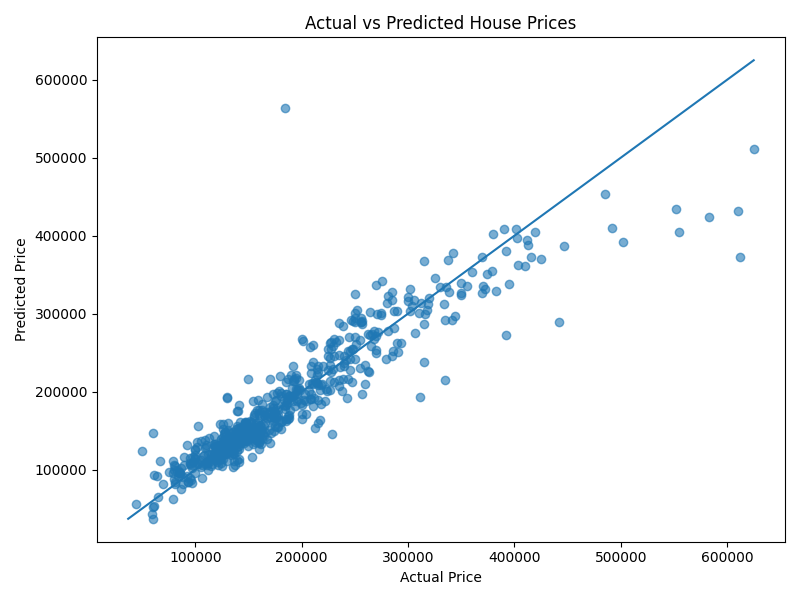
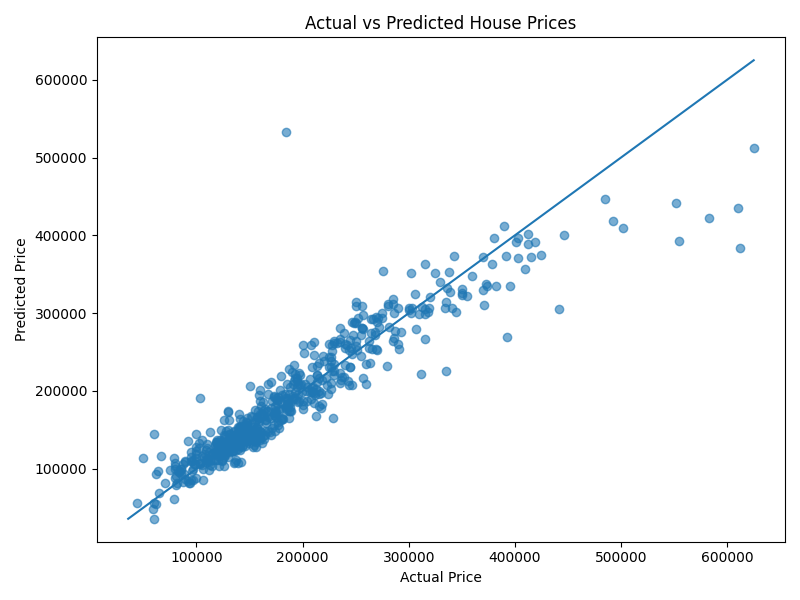
Complete house price prediction project

diff --git a/src/train.py b/src/train.py
@@ -263,3 +263,30 @@ plt.show()
 print("\nTraining completed!")
 print("Model saved successfully!")
 print("Target scaler saved successfully!")
+
+# -------------------------
+# 15. Model Fit Analysis
+# -------------------------
+
+final_train_loss = train_losses[-1]
+final_val_loss = val_losses[-1]
+
+loss_ratio = final_val_loss / final_train_loss
+
+print("\nMODEL FIT ANALYSIS")
+print("-------------------------")
+print(f"Final Training Loss:   {final_train_loss:.4f}")
+print(f"Final Validation Loss: {final_val_loss:.4f}")
+print(f"Validation/Training Ratio: {loss_ratio:.2f}")
+
+if loss_ratio > 1.5:
+    print("Result: OVERFITTING")
+    print("Validation loss is substantially higher than training loss.")
+
+elif final_train_loss > 0.5 and final_val_loss > 0.5:
+    print("Result: UNDERFITTING")
+    print("Both training and validation losses remain relatively high.")
+
+else:
+    print("Result: GOOD FIT")
+    print("Training and validation losses are reasonably low and close.")

diff --git a/README.md b/README.md
@@ -1,0 +1,209 @@
+# House Price Prediction Using Neural Networks
+
+## 1. Project Overview
+
+This project predicts house sale prices using a feed-forward neural network.
+
+The project uses the Ames Housing dataset, which contains information about residential properties such as house quality, living area, garage size, basement area, number of bathrooms, and lot size.
+
+The goal is to build a simple and understandable Artificial Intelligence / Machine Learning model that can learn the relationship between property characteristics and house prices.
+
+---
+
+## 2. Dataset
+
+The project uses the Ames Housing dataset.
+
+The dataset contains 2,930 houses and 82 columns.
+
+The target variable is:
+
+- SalePrice
+
+Ten property features were selected for the neural network:
+
+1. Overall Qual
+2. Gr Liv Area
+3. Garage Cars
+4. Total Bsmt SF
+5. 1st Flr SF
+6. Full Bath
+7. TotRms AbvGrd
+8. Year Built
+9. Garage Area
+10. Lot Area
+
+These features were selected because they represent important characteristics of a property and have meaningful relationships with house prices.
+
+---
+
+## 3. Data Preprocessing
+
+The following preprocessing steps were performed:
+
+### Missing values
+
+Missing numerical values in the selected features were replaced using the median of each feature.
+
+### Train/Test Split
+
+The dataset was divided into training and testing data.
+
+A validation set was also created from the training data to monitor the model during training.
+
+### Feature Normalization
+
+StandardScaler was used to normalize the input features.
+
+This was important because the features have very different numerical ranges.
+
+### Target Normalization
+
+SalePrice was also normalized during training.
+
+After prediction, the values were converted back to the original dollar scale using the inverse transformation.
+
+---
+
+## 4. Neural Network Architecture
+
+The project uses a simple feed-forward neural network.
+
+Architecture:
+
+10 input features
+        ↓
+32 neurons
+        ↓
+ReLU
+        ↓
+16 neurons
+        ↓
+ReLU
+        ↓
+1 output neuron
+
+The output represents the predicted house price.
+
+The model was intentionally kept small and understandable because the goal was to build a student-level AI/ML project rather than a highly complex system.
+
+---
+
+## 5. Training
+
+The model was trained using:
+
+- Loss function: Mean Squared Error (MSE)
+- Optimizer: Adam
+- Learning rate: 0.001
+- Epochs: 200
+- Gradient clipping: maximum norm of 1.0
+- Activation function: ReLU
+
+During training, both training loss and validation loss were recorded.
+
+---
+
+## 6. Evaluation
+
+The model was evaluated using:
+
+### Mean Absolute Error (MAE)
+
+Measures the average absolute difference between predicted and actual prices.
+
+### Root Mean Squared Error (RMSE)
+
+Measures prediction error while giving greater importance to larger errors.
+
+### R² Score
+
+Measures how much of the variation in house prices is explained by the model.
+
+### Final Results
+
+| Metric | Result |
+|---|---:|
+| MAE | $20,173.83 |
+| RMSE | $34,369.08 |
+| R² | 0.8527 |
+
+The model explains approximately 85.27% of the variation in house prices on the test set.
+
+---
+
+## 7. Visualizations
+
+The project includes:
+
+### Actual vs Predicted Prices
+
+This plot compares the actual house prices with the prices predicted by the neural network.
+
+Points closer to the diagonal line represent more accurate predictions.
+
+### Residual Plot
+
+Residuals are calculated as:
+
+Actual Price - Predicted Price
+
+The residual plot helps identify patterns and unusually large prediction errors.
+
+### Training and Validation Loss
+
+This graph shows how the training and validation loss changed over the training epochs.
+
+### Feature Correlation
+
+Correlation analysis was used to understand the relationship between the selected property features and SalePrice.
+
+---
+
+## 8. Model Interpretation
+
+The strongest relationship with SalePrice was observed for:
+
+| Feature | Correlation |
+|---|---:|
+| Overall Qual | 0.799 |
+| Gr Liv Area | 0.707 |
+| Garage Cars | 0.648 |
+| Garage Area | 0.640 |
+| Total Bsmt SF | 0.632 |
+
+Overall Quality had the strongest relationship with house price.
+
+This suggests that property quality and usable living space are particularly important characteristics associated with house prices.
+
+Correlation does not imply causation and does not directly represent the neural network's internal feature importance.
+
+---
+
+## 9. Project Structure
+
+```text
+House_predictor/
+│
+├── data/
+│   └── AmesHousing.csv
+│
+├── models/
+│   ├── house_price_model.pth
+│   └── target_scaler.pkl
+│
+├── results/
+│   ├── training_validation_loss.png
+│   ├── residual_plot.png
+│   └── feature_correlations.png
+│
+├── src/
+│   ├── model.py
+│   ├── train.py
+│   ├── evaluate.py
+│   ├── residuals.py
+│   ├── interpretation.py
+│   └── test_data.py
+│
+├── requirements.txt
+└── README.md
